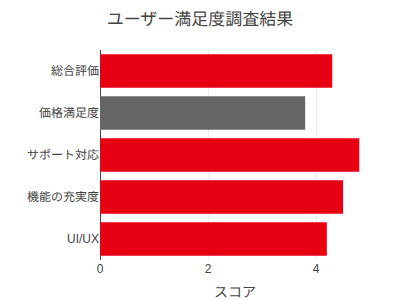
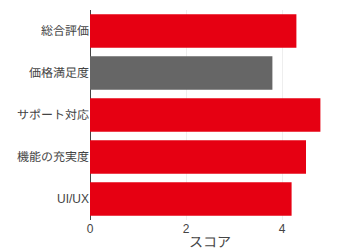
fix: Improve chart layout and regenerate smaller charts
- Regenerate revenue, profit, and satisfaction charts with smaller sizes
- Adjust layout for slides 3-7 to prevent overflow
- Fix flexbox layouts for better chart and text alignment
- Update font sizes and spacing for better readability

diff --git a/basic-presentation.md b/basic-presentation.md
@@ -32,12 +32,12 @@ paginate: true
 
 ## 月間アクティブユーザー数推移
 
-<div style="display: flex; align-items: center; gap: 40px;">
-  <div style="flex: 1;">
-    <img src="./assets/charts/monthly-users.png" style="width: 100%; max-width: 450px;">
+<div style="display: flex; align-items: flex-start; gap: 20px;">
+  <div style="flex: 0 0 450px;">
+    <img src="./assets/charts/monthly-users.png" style="width: 100%;">
   </div>
-  <div style="flex: 1;">
-    <ul style="font-size: 20px;">
+  <div style="flex: 1; padding-top: 40px;">
+    <ul style="font-size: 22px; line-height: 1.8;">
       <li><strong>前月比15%増加</strong></li>
       <li>新機能リリースの効果が顕著</li>
       <li>特に20-30代の利用が活発化</li>
@@ -50,32 +50,32 @@ paginate: true
 
 ## 売上構成比の変化
 
-<div style="display: flex; flex-direction: column; gap: 20px;">
-  <div style="text-align: center;">
-    <div style="display: flex; justify-content: center; gap: 40px; margin: 20px 0;">
-      <div>
-        <img src="./assets/charts/sales-q1.png" style="width: 200px;">
-      </div>
-      <div>
-        <img src="./assets/charts/sales-q2.png" style="width: 200px;">
-      </div>
+<div style="display: flex; justify-content: center; gap: 60px; align-items: center;">
+  <div>
+    <img src="./assets/charts/sales-q1.png" style="width: 220px;">
+  </div>
+  <div>
+    <img src="./assets/charts/sales-q2.png" style="width: 220px;">
+  </div>
+</div>
+
+<div style="display: flex; justify-content: center; gap: 50px; margin-top: 30px; font-size: 20px;">
+  <div style="display: flex; align-items: center;">
+    <div style="width: 20px; height: 20px; background: #E60012; margin-right: 8px;"></div>
+    <div>
+      <strong>プロダクトA</strong>: 45% → 52% (+7pt)
     </div>
   </div>
-  <div style="display: flex; justify-content: space-around; font-size: 18px;">
+  <div style="display: flex; align-items: center;">
+    <div style="width: 20px; height: 20px; background: #666666; margin-right: 8px;"></div>
     <div>
-      <div style="display: inline-block; width: 15px; height: 15px; background: #E60012; margin-right: 5px;"></div>
-      <strong>プロダクトA</strong><br>
-      45% → 52% (+7pt)
+      <strong>プロダクトB</strong>: 35% → 30% (-5pt)
     </div>
+  </div>
+  <div style="display: flex; align-items: center;">
+    <div style="width: 20px; height: 20px; background: #999999; margin-right: 8px;"></div>
     <div>
-      <div style="display: inline-block; width: 15px; height: 15px; background: #666; margin-right: 5px;"></div>
-      <strong>プロダクトB</strong><br>
-      35% → 30% (-5pt)
-    </div>
-    <div>
-      <div style="display: inline-block; width: 15px; height: 15px; background: #999; margin-right: 5px;"></div>
-      <strong>プロダクトC</strong><br>
-      20% → 18% (-2pt)
+      <strong>プロダクトC</strong>: 20% → 18% (-2pt)
     </div>
   </div>
 </div>
@@ -84,16 +84,16 @@ paginate: true
 
 ## 四半期業績サマリー
 
-<div style="display: grid; grid-template-columns: 1fr 1fr; gap: 30px;">
-  <div>
-    <h3 style="font-size: 24px; color: #E60012;">売上高（億円）</h3>
-    <img src="./assets/charts/revenue.png" style="width: 100%; max-width: 350px;">
-    <p style="font-size: 16px; margin-top: 10px;">前年同期比 <strong>+23%</strong></p>
+<div style="display: flex; justify-content: center; gap: 50px;">
+  <div style="text-align: center;">
+    <h3 style="font-size: 22px; color: #E60012; margin-bottom: 15px;">売上高（億円）</h3>
+    <img src="./assets/charts/revenue.png" style="width: 280px;">
+    <p style="font-size: 18px; margin-top: 15px;">前年同期比 <strong>+23%</strong></p>
   </div>
-  <div>
-    <h3 style="font-size: 24px; color: #E60012;">営業利益（億円）</h3>
-    <img src="./assets/charts/profit.png" style="width: 100%; max-width: 350px;">
-    <p style="font-size: 16px; margin-top: 10px;">前年同期比 <strong>+35%</strong></p>
+  <div style="text-align: center;">
+    <h3 style="font-size: 22px; color: #E60012; margin-bottom: 15px;">営業利益（億円）</h3>
+    <img src="./assets/charts/profit.png" style="width: 280px;">
+    <p style="font-size: 18px; margin-top: 15px;">前年同期比 <strong>+35%</strong></p>
   </div>
 </div>
 
@@ -101,13 +101,13 @@ paginate: true
 
 ## ユーザー満足度調査結果
 
-<div style="display: flex; gap: 30px; align-items: flex-start;">
-  <div style="flex: 1.5;">
-    <img src="./assets/charts/satisfaction.png" style="width: 100%; max-width: 400px;">
+<div style="display: flex; gap: 30px; align-items: center;">
+  <div style="flex: 0 0 350px;">
+    <img src="./assets/charts/satisfaction.png" style="width: 100%;">
   </div>
   <div style="flex: 1; background-color: #f8f8f8; padding: 20px; border-radius: 8px;">
-    <h3 style="font-size: 20px; margin-top: 0;">主な改善ポイント</h3>
-    <ul style="font-size: 16px; line-height: 1.8;">
+    <h3 style="font-size: 20px; margin-top: 0; margin-bottom: 15px;">主な改善ポイント</h3>
+    <ul style="font-size: 17px; line-height: 1.8;">
       <li>レスポンスタイムの改善</li>
       <li>新機能のチュートリアル充実</li>
       <li>カスタマーサポート体制強化</li>
@@ -123,19 +123,19 @@ paginate: true
 ## 市場シェア分析
 
 <div style="text-align: center;">
-  <img src="./assets/charts/market-share.png" style="width: 90%; max-width: 600px;">
+  <img src="./assets/charts/market-share.png" style="width: 550px; margin: 0 auto;">
   
-  <div style="display: flex; justify-content: center; gap: 40px; font-size: 18px; margin-top: 20px;">
+  <div style="display: flex; justify-content: center; gap: 50px; font-size: 20px; margin-top: 25px;">
     <div style="display: flex; align-items: center; gap: 10px;">
-      <div style="width: 20px; height: 3px; background-color: #E60012;"></div>
+      <div style="width: 30px; height: 4px; background-color: #E60012;"></div>
       <span>当社: <strong>28.5%</strong></span>
     </div>
     <div style="display: flex; align-items: center; gap: 10px;">
-      <div style="width: 20px; height: 3px; background-color: #666;"></div>
+      <div style="width: 30px; height: 4px; background-color: #666666;"></div>
       <span>競合A: 24.2%</span>
     </div>
     <div style="display: flex; align-items: center; gap: 10px;">
-      <div style="width: 20px; height: 3px; background-color: #999;"></div>
+      <div style="width: 30px; height: 4px; background-color: #999999;"></div>
       <span>競合B: 18.7%</span>
     </div>
   </div>
